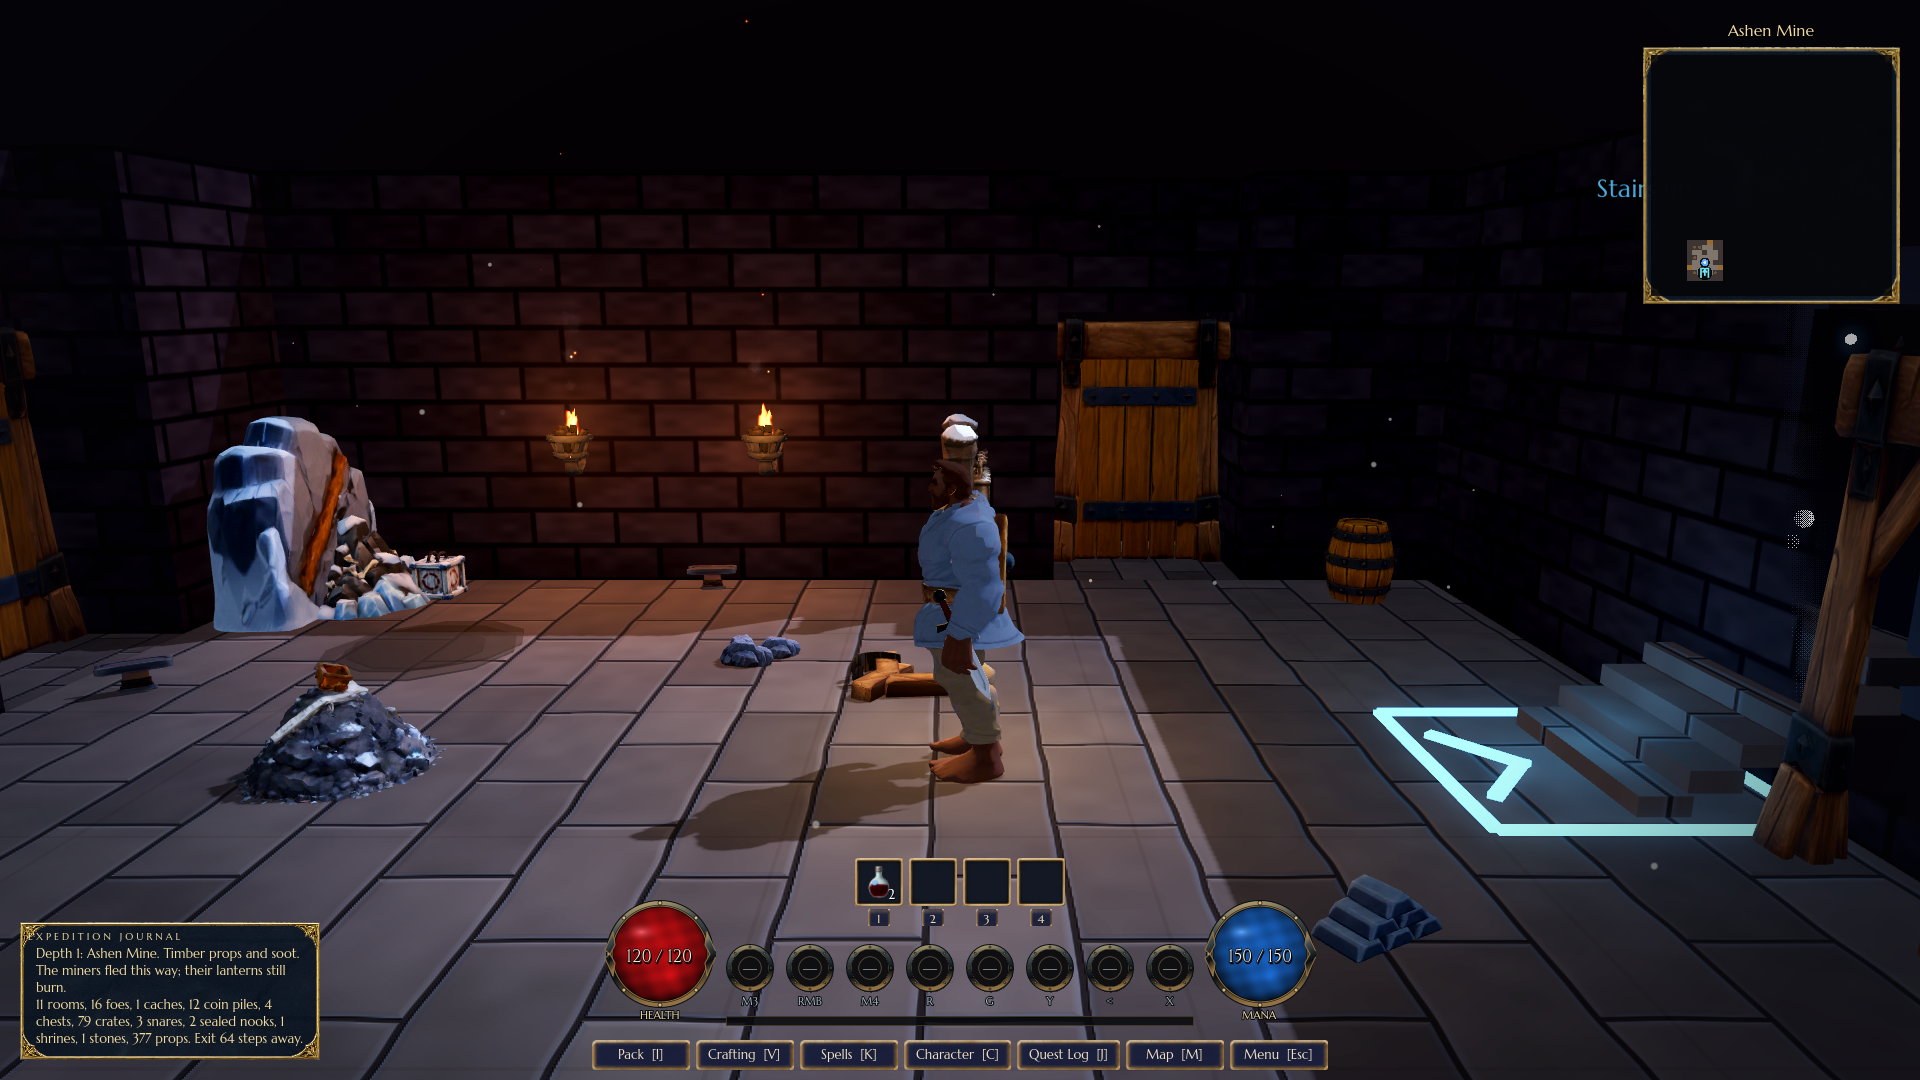
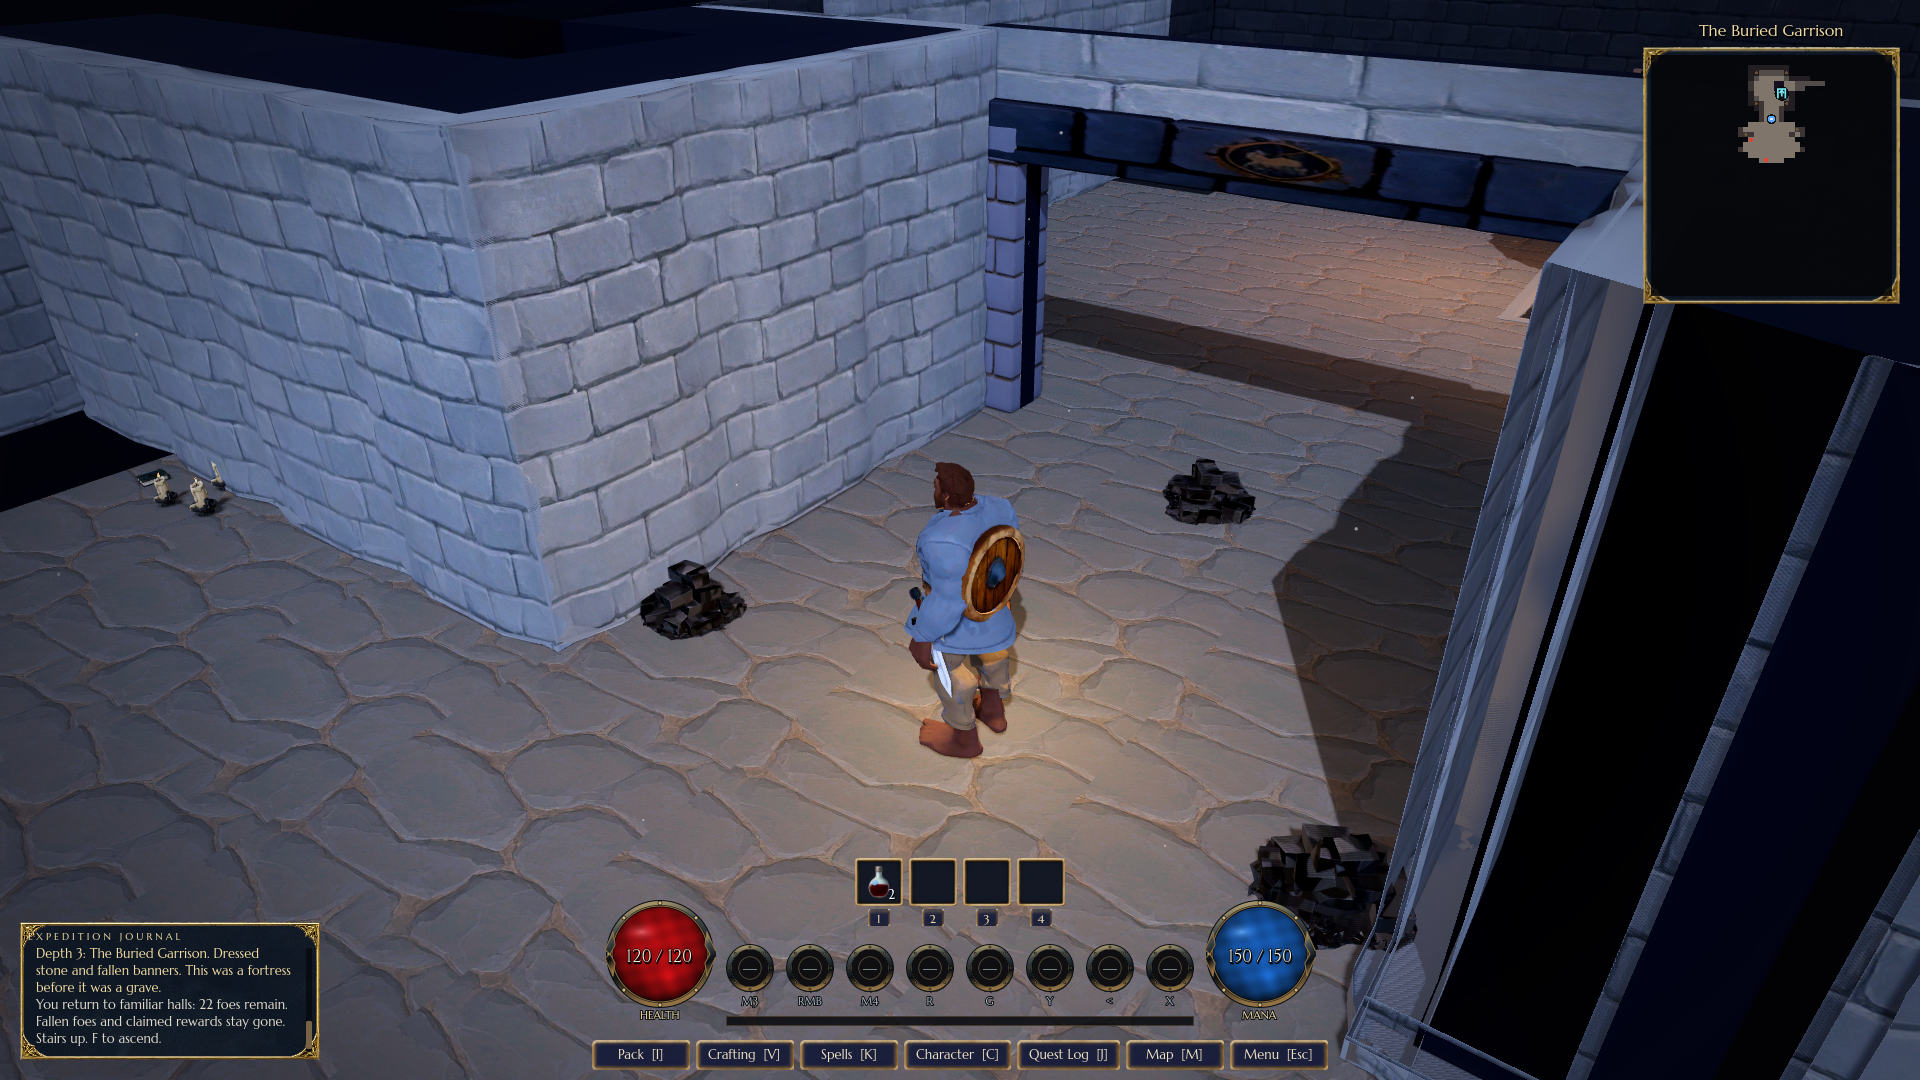
docs: announce v0.1.24

diff --git a/README.md b/README.md
@@ -5,7 +5,7 @@ follow its inhabitants' troubles into the wilderness, and descend into a fortres
 buried beneath the town. Fight in real time, gather supplies, and make the equipment
 you carry into the next expedition.
 
-**[Download the Windows preview — v0.1.23](https://github.com/batschu/veyrholm/releases/tag/v0.1.23)**
+**[Download the Windows preview — v0.1.24](https://github.com/batschu/veyrholm/releases/tag/v0.1.24)**
 
 ![The road through Veyrholm's snowy houses and market](docs/images/veyrholm-town.png)
 
@@ -17,15 +17,20 @@ Explore woodland paths, rocky heights, and misty marshes, with caves, cellars,
 camps, and other smaller places along the way. Return to town to trade, rest,
 and prepare.
 
-The fortress descends through **eight procedural floors**, with enemies, traps,
-treasure, and hidden rooms. Its entrance opens through the town's quest progression.
+The fortress descends through **eight procedural floors**: worked mine passages,
+a great shaft, a buried garrison, cisterns, a blackstone sanctuary, burial galleries,
+a royal procession, and broken rune halls. A distinct entrance marks the way inside,
+and paired spiral stairs connect each floor to the next. Existing expeditions keep
+their explored layouts while receiving the new architecture and themed furnishings.
+Enemies, traps, treasure, and hidden rooms await below. The entrance opens through
+the town's quest progression.
 Time your attacks, blocks, parries, and rolls, and combine weapons and armour with
 spells as you develop your character.
 
 <table>
   <tr>
     <td><img src="docs/images/veyrholm-bittermoor.png" alt="A timber boardwalk through Bittermoor's reeds and twisted trees" width="100%"></td>
-    <td><img src="docs/images/veyrholm-dungeon.png" alt="A torchlit room on the Ashen Mine floor of the buried fortress" width="100%"></td>
+    <td><img src="docs/images/veyrholm-dungeon.png" alt="The garrison's stone walls and fitted portal inside the buried fortress" width="100%"></td>
   </tr>
   <tr><td>Bittermoor</td><td>Inside the buried fortress</td></tr>
 </table>
@@ -65,13 +70,11 @@ paint and charge runes, bind stones, and test enchantments.
 
 ## Play on Windows
 
-For [v0.1.23](https://github.com/batschu/veyrholm/releases/tag/v0.1.23), download
-**all four files** under **Assets** (about 4 GB in total):
+For [v0.1.24](https://github.com/batschu/veyrholm/releases/tag/v0.1.24), download
+the launcher ZIP and **every numbered data pack part** under **Assets**:
 
 - **Veyrholm-Windows-x86_64.zip**
-- **Veyrholm.pck.001**
-- **Veyrholm.pck.002**
-- **Veyrholm.pck.003**
+- **Veyrholm.pck.001**, **Veyrholm.pck.002**, and all subsequent numbered parts.
 
 Put them in one new folder and fully extract the ZIP there. Double-click
 **join_parts.bat** to assemble **Veyrholm.pck**, then launch **Veyrholm.exe**.
@@ -82,4 +85,5 @@ Veyrholm is in active development, and this is a playable preview. Some higher-t
 crafting content and Mystic Arts are currently available only in practice;
 campaign content, balancing, and visuals are still evolving.
 
-*Screenshots captured from v0.1.23 at 1920 × 1080.*
+*Town, wilderness, and crafting screenshots are from v0.1.23; the dungeon view
+shows the latest architecture overhaul. All screenshots are 1920 × 1080.*
